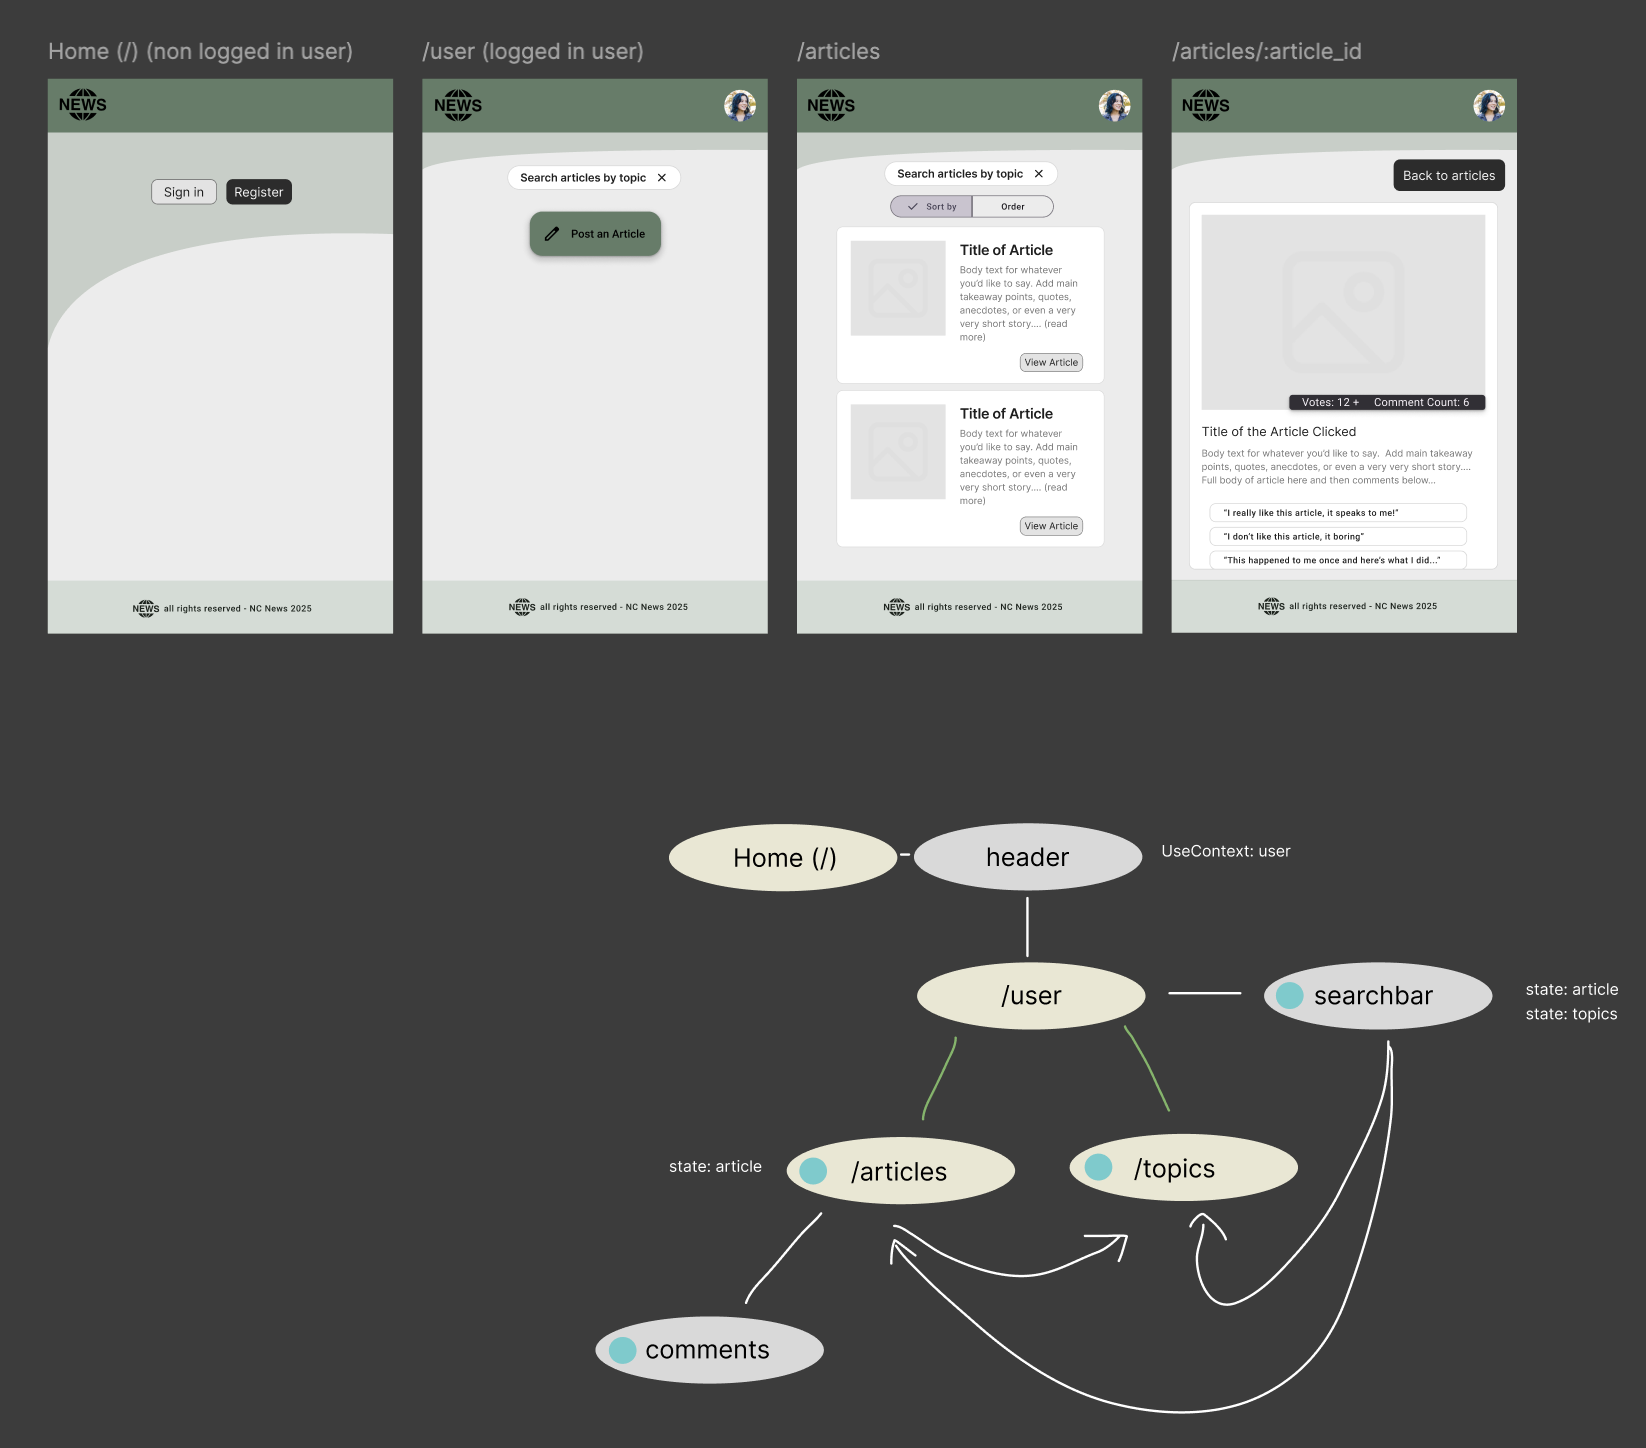
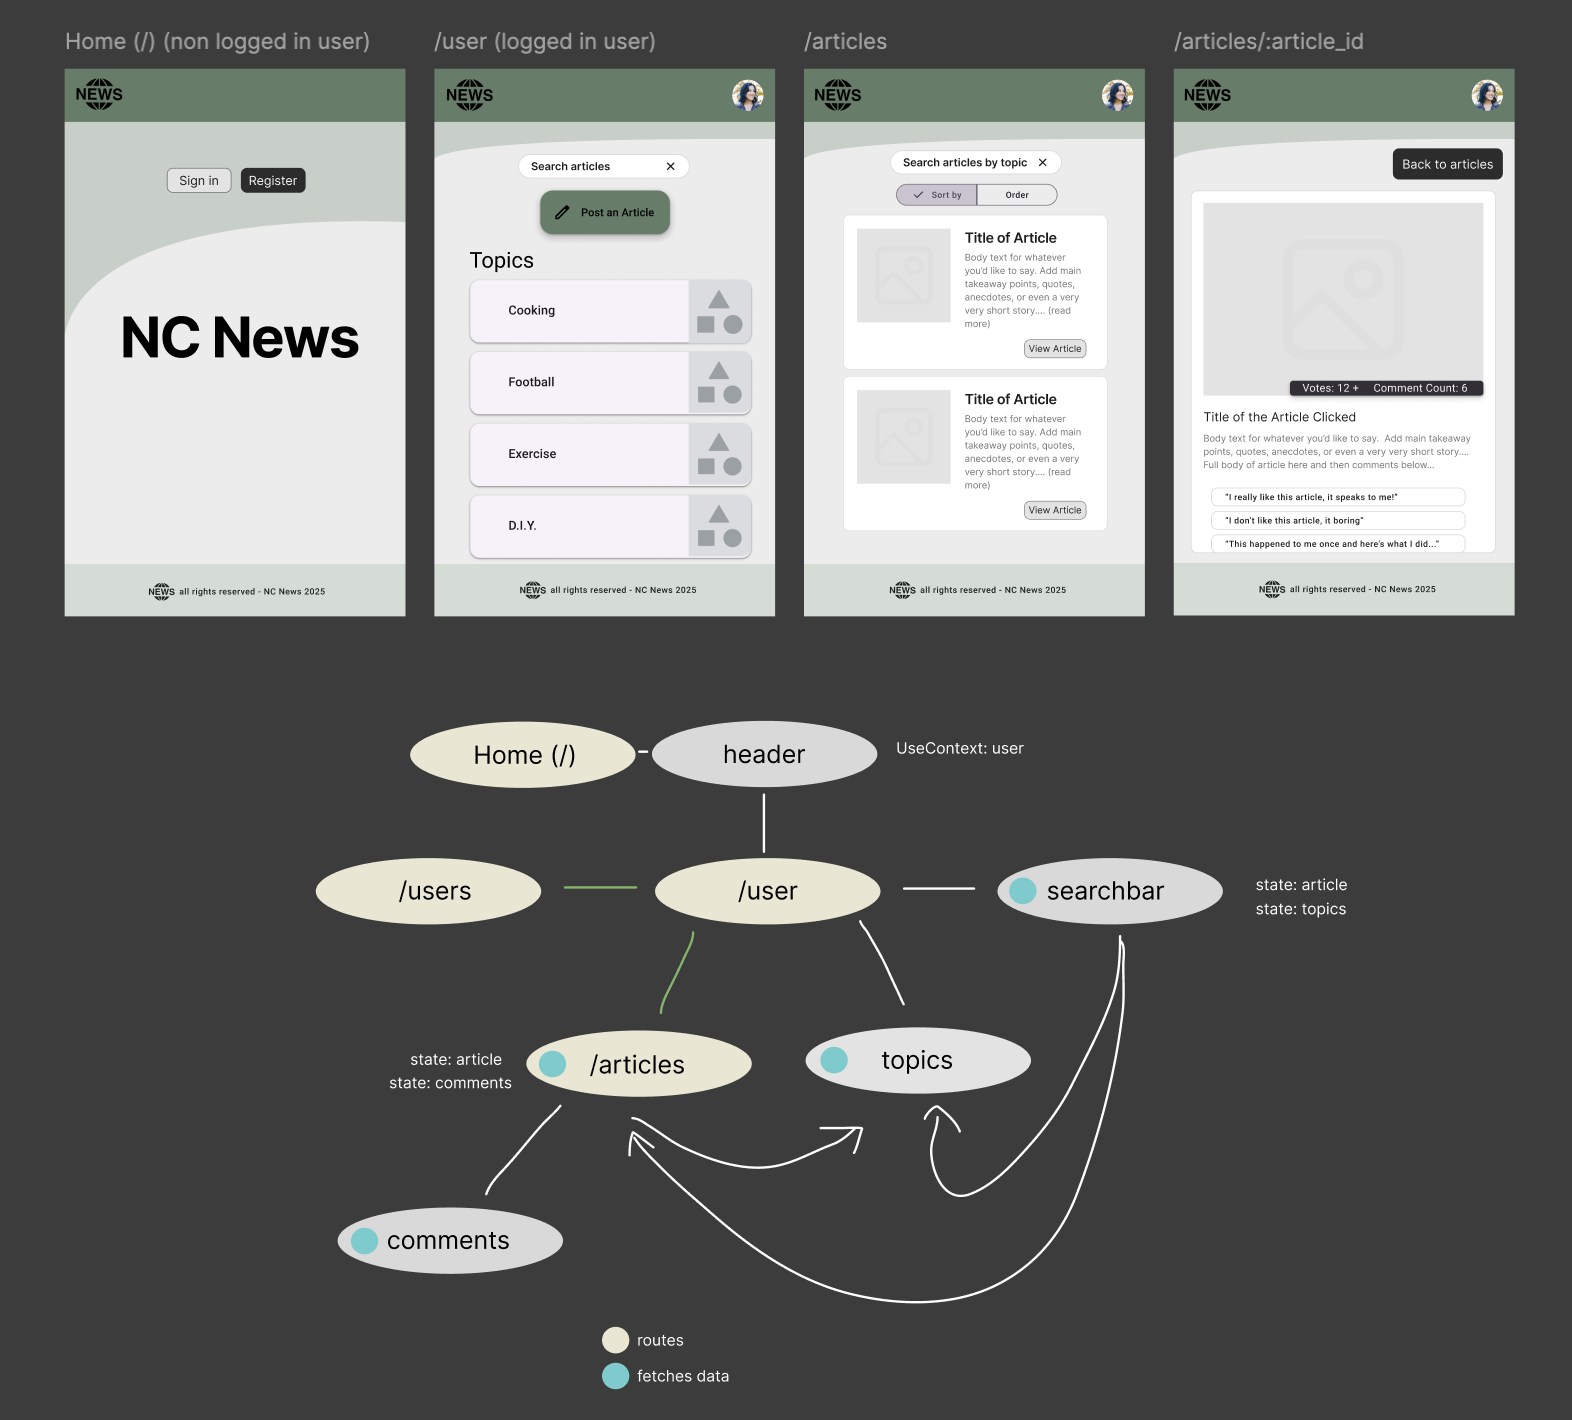
update initial plan diagram and tweak css for further work

diff --git a/src/App.css b/src/App.css
@@ -1,7 +1,6 @@
 #root {
-  max-width: 80%;
+  max-width: 100%;
   margin: 0 auto;
-  padding: 2rem;
   text-align: center;
 }
 
@@ -27,7 +26,6 @@ ul{
   filter: drop-shadow(0 0 2em #61dafbaa);
 }
 
-
 .card {
   padding: 2em;
 }
@@ -36,11 +34,9 @@ ul{
   color: #888;
 }
 
-/* from index css */
-
 :root {
   font-family: system-ui, Avenir, Helvetica, Arial, sans-serif;
-  line-height: 1.5;
+  line-height: 1.4;
 
   font-synthesis: none;
   text-rendering: optimizeLegibility;
@@ -57,17 +53,12 @@ a:hover {
   color: #535bf2;
 }
 
-body {
-  margin: 0;
-  display: flex;
-  place-items: center;
-  min-width: 320px;
-  min-height: 100vh;
-}
 
 h1 {
+  background-color: rgb(118, 164, 125);
   font-size: 3.2em;
   line-height: 1.1;
+  margin-bottom: 20px;
 }
 
 button {
@@ -94,8 +85,10 @@ button:focus-visible {
   justify-content: center;
   grid-template-columns: repeat(auto-fit, minmax(290px, 1fr));
   padding: 20px;
+  width: 80%;
   max-width: 1900px;
   gap: 20px;
+  margin: 0 auto;
 }
 
 #article-card-title{
@@ -121,6 +114,7 @@ button:focus-visible {
 #article-img{
   align-items: center;
   width: 250px;
+  border-radius: 3%;
 }
 
 .article-card:hover {

diff --git a/src/App.jsx b/src/App.jsx
@@ -9,11 +9,7 @@ function App() {
 
   return (
     <>
-      <div>
-        {/* <a href="https://vite.dev" target="_blank">
-          <img src={viteLogo} className="logo" alt="Vite logo" />
-        </a> */}
-      </div>
+     
       <Header />
     <Articles />
       {/* <div className="card">
@@ -21,6 +17,11 @@ function App() {
           count is {count}
         </button>
       </div> */}
+       <div>
+        {/* <a href="https://vite.dev" target="_blank">
+          <img src={viteLogo} className="logo" alt="Vite logo" />
+        </a> */}
+      </div>
     </>
   )
 }
